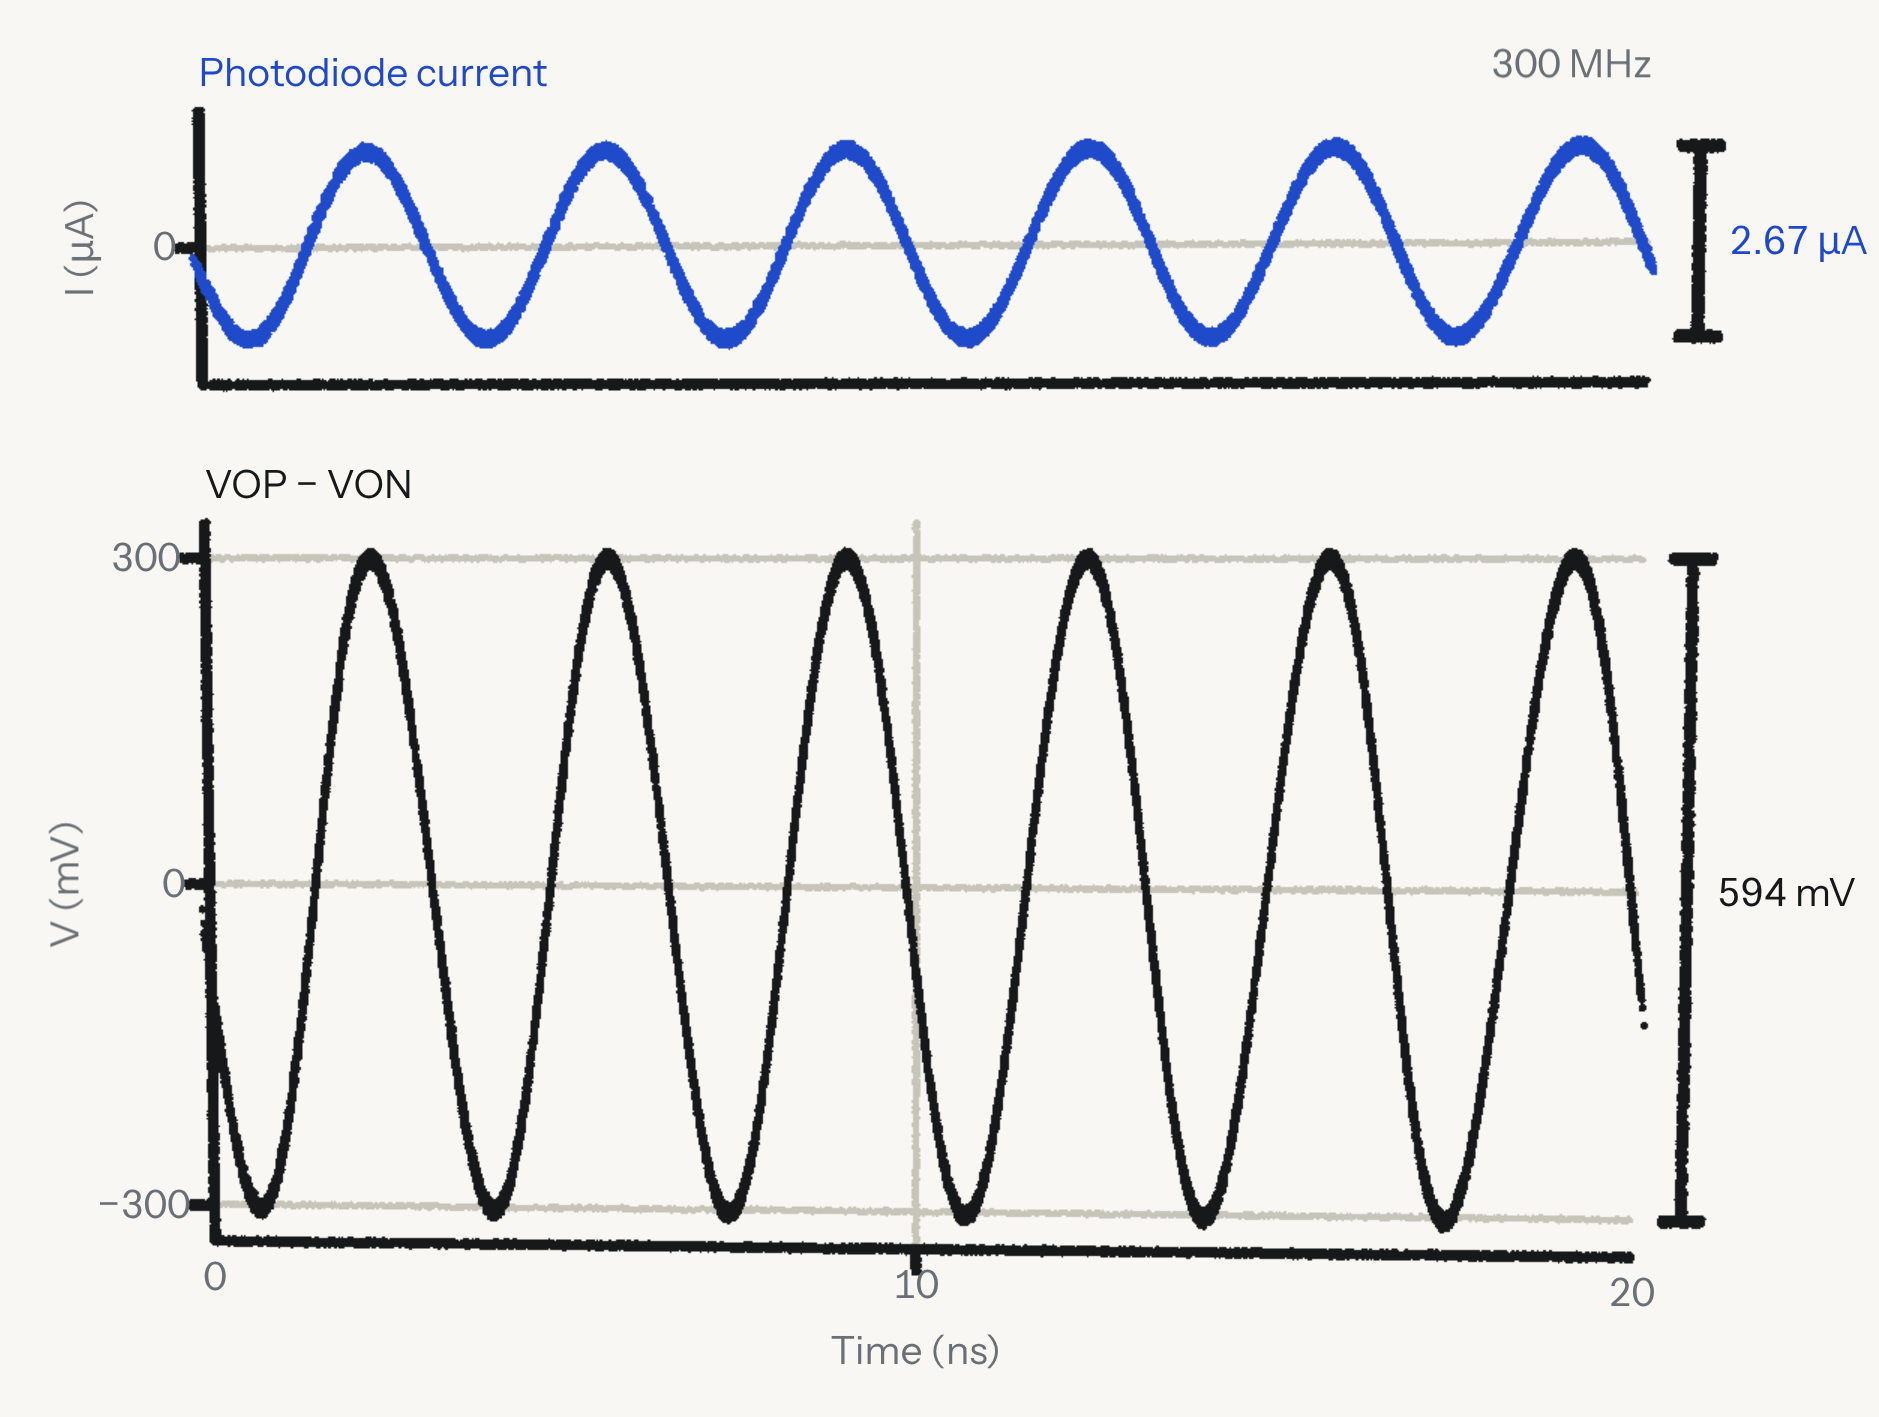
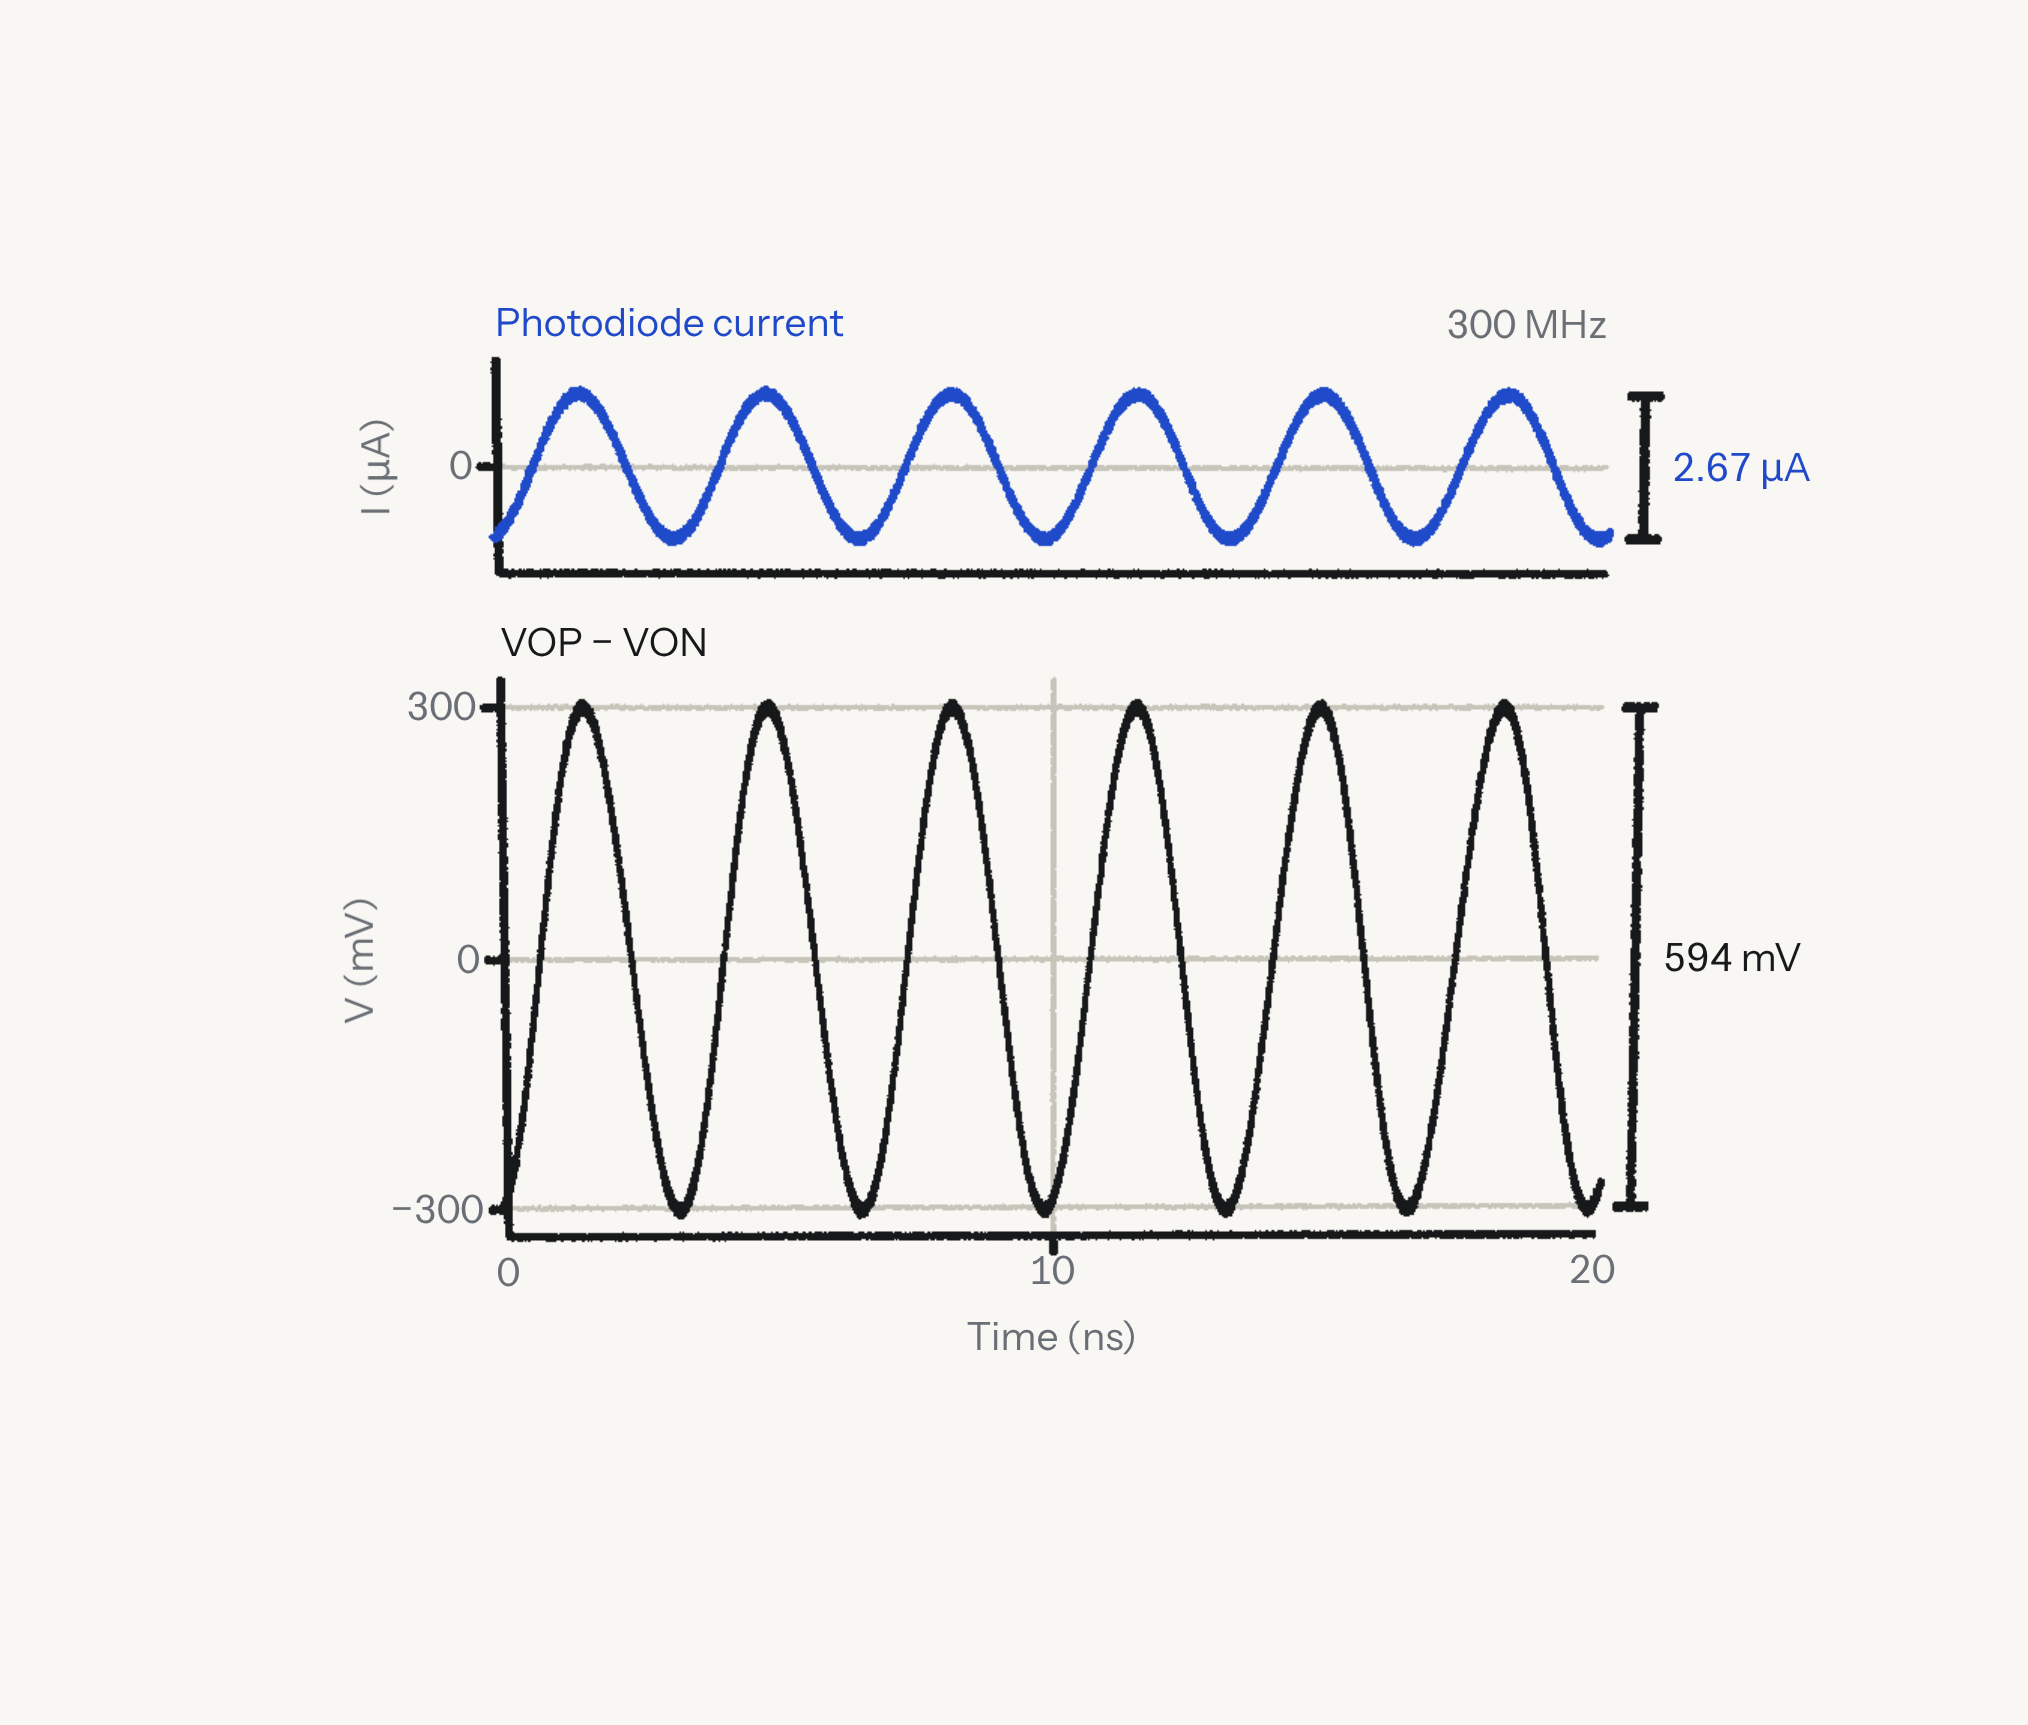
TIA cloud at 1279x707: fill the box, flat rails without stair steps, compact signal beads; static figures re-captured
The schematic was drawn small in its box and the yawed camera made long rails
step every 40px. Yaw 0 and distance 9.6 (with a per-shape step-back aspect) fill
the box and keep wires on one pixel row; pulses now use a tighter head and
shorter tail so they read as beads. The three static figures were re-captured.

Claude-Session: https://claude.ai/code/session_018LMzagV9NcEfjj8oFWPqm4

diff --git a/assets/js/cloud.js b/assets/js/cloud.js
@@ -260,7 +260,8 @@
   // The TIA signal chain, from the report's schematics: photodiode model (current source and 100 fF),
   // 50 pF coupling, common-gate input stage with a 10 kΩ load, differential pair with PMOS loads,
   // four cascaded common-source stages per path, source followers, 600 Ω differential load.
-  var CAM_TIA = [0.08, 0.1, 11.2];
+  // Flat drawings use yaw 0 so horizontal wires and axes stay within one pixel row. Entries: yaw, elevation, distance, optional canvas aspect below which the camera steps back (default 0.9).
+  var CAM_TIA = [0, 0.1, 9.6, 1.08];
   function shapeTIA() {
     var parts = [], tags = {}, S = 0.93, OX = -0.3, OY = 0.4, pathP = [], pathN = [];
     function P(x, y) { return [x * S + OX, y * S + OY]; }
@@ -343,7 +344,7 @@
     pathP = head.concat(pathP);
     pathN = [tA.gate, [tA.top[0], tA.gate[1]], [tA.bot[0], tail[1]], [tB.bot[0], tail[1]], [tB.top[0], tail[1]], vn].concat(pathN);
     // Flow particles: blue dots that run along both paths (their positions are set each frame)
-    var flows = [{ path: pathP, n: 26 }, { path: pathN, n: 18 }];
+    var flows = [{ path: pathP, n: 20 }, { path: pathN, n: 14 }];
     flows.forEach(function (f, i) { f.name = "flow" + i; f.per = 12; parts.push({ name: f.name, n: f.n * f.per, emit: function (k) { var tail = k % f.per >= 7; return [0, 0, 0.03, tail ? BLUE2 : BLUE, (tail ? 1.1 : 1.6) * COV]; } }); });
     tags = {
       pd: { p: [P(xPD, yGndL)[0] - 0.14, P(0, yGndL)[1] - 0.3, 0] },
@@ -362,7 +363,7 @@
 
   // Input current and differential output voltage against time: 2.67 µA peak to peak in at 300 MHz,
   // 594 mV peak to peak out (VOP minus VON). The sines travel; the vertex shader moves them.
-  var CAM_SCOPE = [0.1, 0.08, 9.6], CYCLES_SHOWN = 6;
+  var CAM_SCOPE = [0, 0.08, 9.6], CYCLES_SHOWN = 6;
   function shapeScope() {
     var parts = [], yiT = 1.95, yiB = 1.15, yvT = 0.75, yvB = -1.4, ci = (yiT + yiB) / 2, cv = (yvT + yvB) / 2, ai = 0.27, av = 0.297 / 0.33 * (yvT - cv);
     axesParts(parts, X0, X1, yiB, yiT, [], [ci]);
@@ -384,7 +385,7 @@
 
   // Transimpedance gain against frequency, read from the report's Spectre plot (VOP minus VON over the
   // photodiode current): flat near 109 dBΩ, 3 dB down at 2.31 MHz and 492.88 MHz.
-  var CAM_BODE = [-0.1, 0.12, 9.6];
+  var CAM_BODE = [0, 0.12, 9.6];
   var BODE = [[4.706,-11.0],[4.765,-4.1],[4.824,2.8],[4.882,9.6],[4.941,16.3],[5.0,22.9],[5.059,29.4],[5.118,35.8],[5.176,41.9],[5.235,47.9],[5.294,53.7],[5.353,59.1],[5.412,64.2],[5.471,69.1],[5.529,73.6],[5.588,77.7],[5.647,81.6],[5.706,85.1],[5.765,88.0],[5.824,90.6],[5.882,93.1],[5.941,95.2],[6.0,97.1],[6.059,98.5],[6.118,99.9],[6.176,101.3],[6.235,102.8],[6.294,103.8],[6.353,104.7],[6.412,105.5],[6.471,106.2],[6.529,106.9],[6.588,107.3],[6.647,107.6],[6.706,107.9],[6.765,108.2],[6.824,108.5],[6.882,108.7],[6.941,108.9],[7.0,109.0],[7.059,109.1],[7.118,109.3],[7.176,109.3],[7.235,109.3],[7.294,109.3],[7.353,109.3],[7.412,109.3],[7.471,109.3],[7.529,109.3],[7.588,109.3],[7.647,109.3],[7.706,109.3],[7.765,109.3],[7.824,109.3],[7.882,109.3],[7.941,109.3],[8.0,109.3],[8.059,109.2],[8.118,109.1],[8.176,109.0],[8.235,108.9],[8.294,108.9],[8.353,108.8],[8.412,108.6],[8.471,108.3],[8.529,107.8],[8.588,107.0],[8.647,105.8],[8.706,104.3],[8.765,102.8],[8.824,101.2],[8.882,99.5],[8.941,97.5],[9.0,95.1],[9.059,92.6],[9.118,89.8],[9.176,87.1],[9.235,84.0],[9.294,80.6],[9.353,76.9],[9.412,72.9],[9.471,68.7],[9.529,64.4],[9.588,60.0],[9.647,55.5],[9.706,50.8],[9.765,46.0],[9.824,41.1],[9.882,36.9],[9.941,33.3],[10.0,30.4]];
   function shapeBode() {
     var LG0 = 5, LG1 = 10, DB0 = 0, DB1 = 120, L3 = 104.7;
@@ -478,7 +479,7 @@
     var S = shapes.length;
     shapes.forEach(function (s, i) { var g = s.build(); s.pos = g.pos; s.col = g.col; s.siz = g.siz; s.wav = g.wav; s.tags = g.tags; s.index = i; s.order = g.order;
       s.flows = (g.flows || []).map(function (f) { var r = g.ranges[f.name], cum = [0]; for (var k = 1; k < f.path.length; k++) cum.push(cum[k - 1] + Math.hypot(f.path[k][0] - f.path[k - 1][0], f.path[k][1] - f.path[k - 1][1]));
-        var jit = []; for (var j = 0; j < r.count; j++) { var th = rnd() * 6.2832, q = 0.028 * Math.sqrt(rnd()); jit.push(q * Math.cos(th), q * Math.sin(th)); }
+        var jit = []; for (var j = 0; j < r.count; j++) { var th = rnd() * 6.2832, q = 0.01 * Math.sqrt(rnd()); jit.push(q * Math.cos(th), q * Math.sin(th)); }
         return { start: r.start, count: r.count, per: f.per, n: f.n, path: f.path, cum: cum, len: cum[cum.length - 1], jit: jit }; }); });
     if (debug) debug.push({ root: hero, shapes: shapes });
 
@@ -566,7 +567,7 @@
         var attr = si === seg ? pA : pB, arr = attr.array;
         sh.flows.forEach(function (f) {
           for (var j = 0; j < f.count; j++) {
-            var pt = Math.floor(j / f.per), m = j % f.per, back = m >= 7 ? (m - 6) * 0.045 : 0;   // the last five points trail behind the head
+            var pt = Math.floor(j / f.per), m = j % f.per, back = m >= 7 ? (m - 6) * 0.03 : 0;   // the last five points trail behind the head
             var u = ((pt / f.n) + now * 0.00009 - back / f.len + 1) % 1, d = u * f.len, k = 1;
             while (k < f.cum.length - 1 && f.cum[k] < d) k++;
             var a = f.path[k - 1], b = f.path[k], t = (d - f.cum[k - 1]) / Math.max(1e-6, f.cum[k] - f.cum[k - 1]), o = f.start + j, jx = m >= 7 ? 0.3 : 1;
@@ -581,7 +582,7 @@
       switched = false;
       // Camera between the two shapes' viewpoints, with a slow drift.
       var ca = shapes[seg].cam, cb = shapes[Math.min(S - 1, seg + 1)].cam;
-      var az = ca[0] + (cb[0] - ca[0]) * tt + Math.sin(now * 0.00018) * 0.05, el = ca[1] + (cb[1] - ca[1]) * tt, d = (ca[2] + (cb[2] - ca[2]) * tt) * Math.max(1, 0.9 / camera.aspect); // step back on narrow canvases
+      var az = ca[0] + (cb[0] - ca[0]) * tt + Math.sin(now * 0.00018) * 0.015, el = ca[1] + (cb[1] - ca[1]) * tt, d = (ca[2] + (cb[2] - ca[2]) * tt) * Math.max(1, ((ca[3] || 0.9) + ((cb[3] || 0.9) - (ca[3] || 0.9)) * tt) / camera.aspect); // step back on narrow canvases
       camera.position.set(Math.sin(az) * Math.cos(el) * d, Math.sin(el) * d, Math.cos(az) * Math.cos(el) * d);
       camera.lookAt(0, lookY, 0);   // in the hero the shapes sit high, clear of the panel; data-cloud-look moves this
       renderer.render(scene, camera);

diff --git a/index.html b/index.html
@@ -171,7 +171,7 @@ cloud: true
                 </ul>
                 <figure class="fig fig--static step-fig">
                   <p class="fig-title"><b>45 nm CMOS TIA.</b> Signal chain.</p>
-                  <img src="{{ '/assets/img/tia-chain.png' | relative_url }}" width="2028" height="1360" alt="Schematic of the TIA signal chain: photodiode model, common-gate stage, differential pair, four common-source stages per path, source followers, 600 Ω load" loading="lazy">
+                  <img src="{{ '/assets/img/tia-chain.png' | relative_url }}" width="2028" height="1725" alt="Schematic of the TIA signal chain: photodiode model, common-gate stage, differential pair, four common-source stages per path, source followers, 600 Ω load" loading="lazy">
                 </figure>
               </div>
               <div class="stage-step" data-step="1">
@@ -180,7 +180,7 @@ cloud: true
                 <p class="case-intro">Transient simulation: 2.67 µA peak to peak at 300 MHz in, 594 mV peak to peak across VOP and VON out.</p>
                 <figure class="fig fig--static step-fig">
                   <p class="fig-title"><b>45 nm CMOS TIA.</b> Transient simulation, 300 MHz.</p>
-                  <img src="{{ '/assets/img/tia-output.png' | relative_url }}" width="1879" height="1417" alt="Photodiode current, 2.67 µA peak to peak, and the differential output, 594 mV peak to peak, against time" loading="lazy">
+                  <img src="{{ '/assets/img/tia-output.png' | relative_url }}" width="2028" height="1725" alt="Photodiode current, 2.67 µA peak to peak, and the differential output, 594 mV peak to peak, against time" loading="lazy">
                 </figure>
               </div>
               <div class="stage-step" data-step="2">
@@ -189,7 +189,7 @@ cloud: true
                 <p class="case-intro">Gain flat at 109 dBΩ from 2.31 MHz to 492.88 MHz, from the Spectre AC sweep of VOP minus VON over the photodiode current.</p>
                 <figure class="fig fig--static step-fig">
                   <p class="fig-title"><b>45 nm CMOS TIA.</b> Spectre simulation, 1 V supply.</p>
-                  <img src="{{ '/assets/img/tia-gain.png' | relative_url }}" width="1733" height="1363" alt="Transimpedance gain against frequency: flat at 109 dBΩ, 3 dB down at 2.31 MHz and 492.88 MHz" loading="lazy">
+                  <img src="{{ '/assets/img/tia-gain.png' | relative_url }}" width="2028" height="1725" alt="Transimpedance gain against frequency: flat at 109 dBΩ, 3 dB down at 2.31 MHz and 492.88 MHz" loading="lazy">
                 </figure>
               </div>
             </div>
@@ -241,15 +241,15 @@ cloud: true
                 </div>
                 <figure class="fig fig--static box-fig" data-for="0">
                   <p class="fig-title"><b>45 nm CMOS TIA.</b> Signal chain.</p>
-                  <img src="{{ '/assets/img/tia-chain.png' | relative_url }}" width="2028" height="1360" alt="Schematic of the TIA signal chain: photodiode model, common-gate stage, differential pair, four common-source stages per path, source followers, 600 Ω load" loading="lazy">
+                  <img src="{{ '/assets/img/tia-chain.png' | relative_url }}" width="2028" height="1725" alt="Schematic of the TIA signal chain: photodiode model, common-gate stage, differential pair, four common-source stages per path, source followers, 600 Ω load" loading="lazy">
                 </figure>
                 <figure class="fig fig--static box-fig" data-for="1">
                   <p class="fig-title"><b>45 nm CMOS TIA.</b> Transient simulation, 300 MHz.</p>
-                  <img src="{{ '/assets/img/tia-output.png' | relative_url }}" width="1879" height="1417" alt="Photodiode current, 2.67 µA peak to peak, and the differential output, 594 mV peak to peak, against time" loading="lazy">
+                  <img src="{{ '/assets/img/tia-output.png' | relative_url }}" width="2028" height="1725" alt="Photodiode current, 2.67 µA peak to peak, and the differential output, 594 mV peak to peak, against time" loading="lazy">
                 </figure>
                 <figure class="fig fig--static box-fig" data-for="2">
                   <p class="fig-title"><b>45 nm CMOS TIA.</b> Spectre simulation, 1 V supply.</p>
-                  <img src="{{ '/assets/img/tia-gain.png' | relative_url }}" width="1733" height="1363" alt="Transimpedance gain against frequency: flat at 109 dBΩ, 3 dB down at 2.31 MHz and 492.88 MHz" loading="lazy">
+                  <img src="{{ '/assets/img/tia-gain.png' | relative_url }}" width="2028" height="1725" alt="Transimpedance gain against frequency: flat at 109 dBΩ, 3 dB down at 2.31 MHz and 492.88 MHz" loading="lazy">
                 </figure>
               </div>
             </div>
